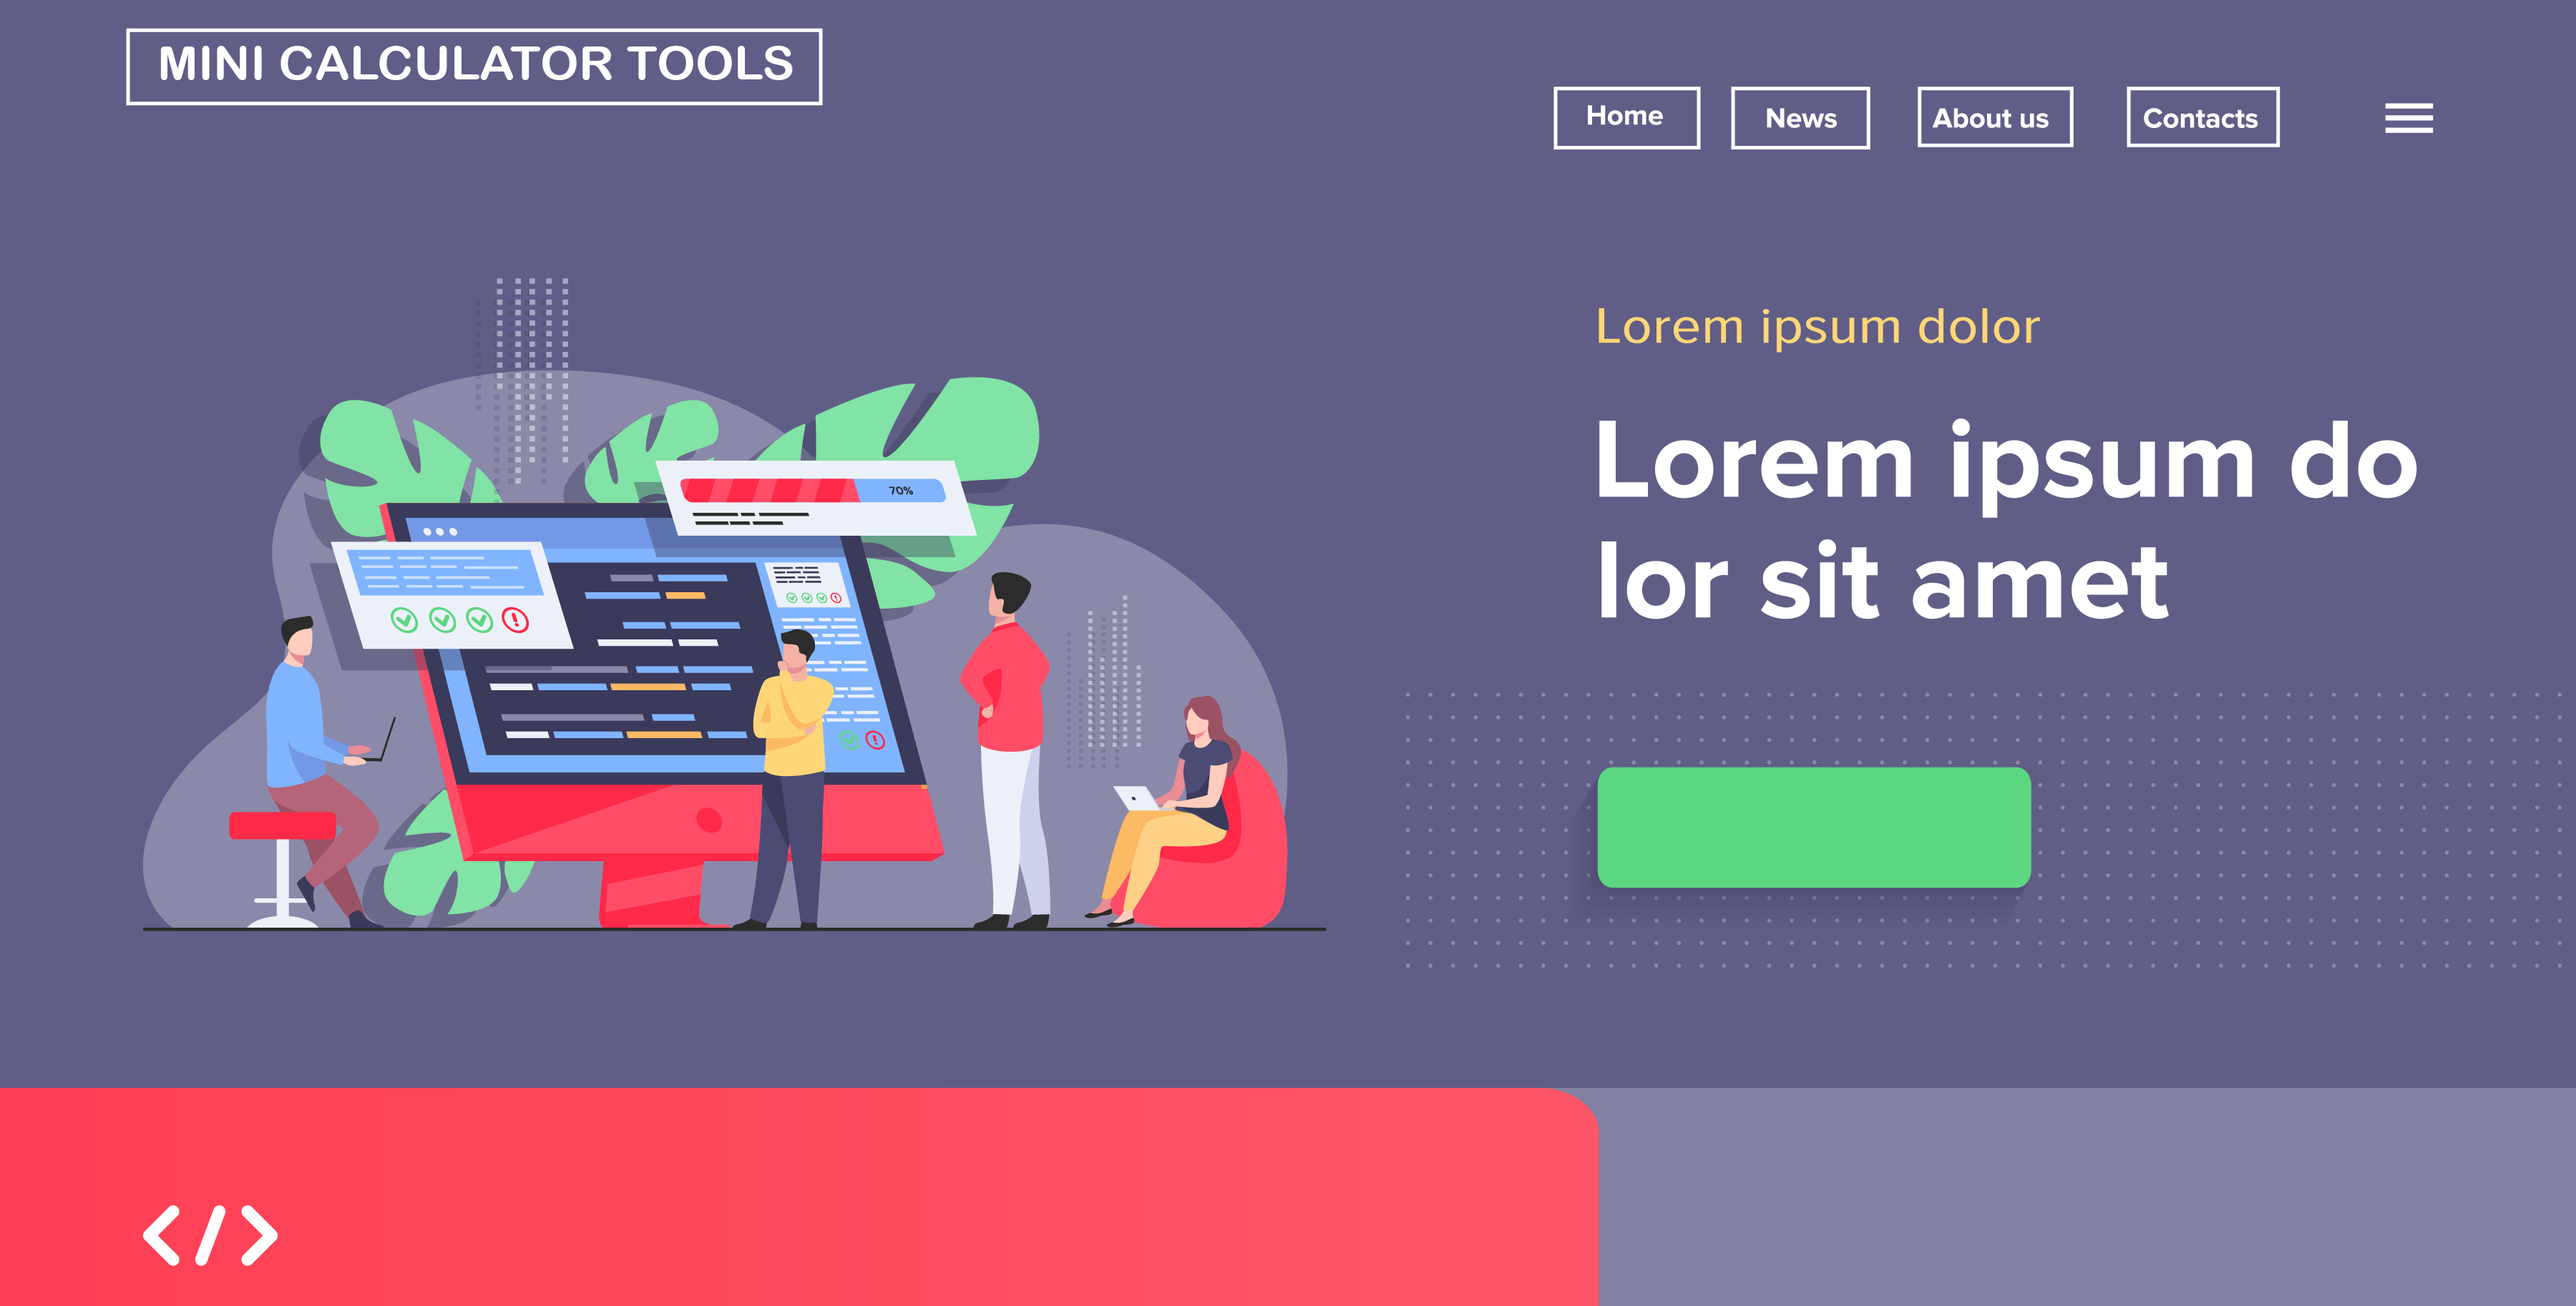
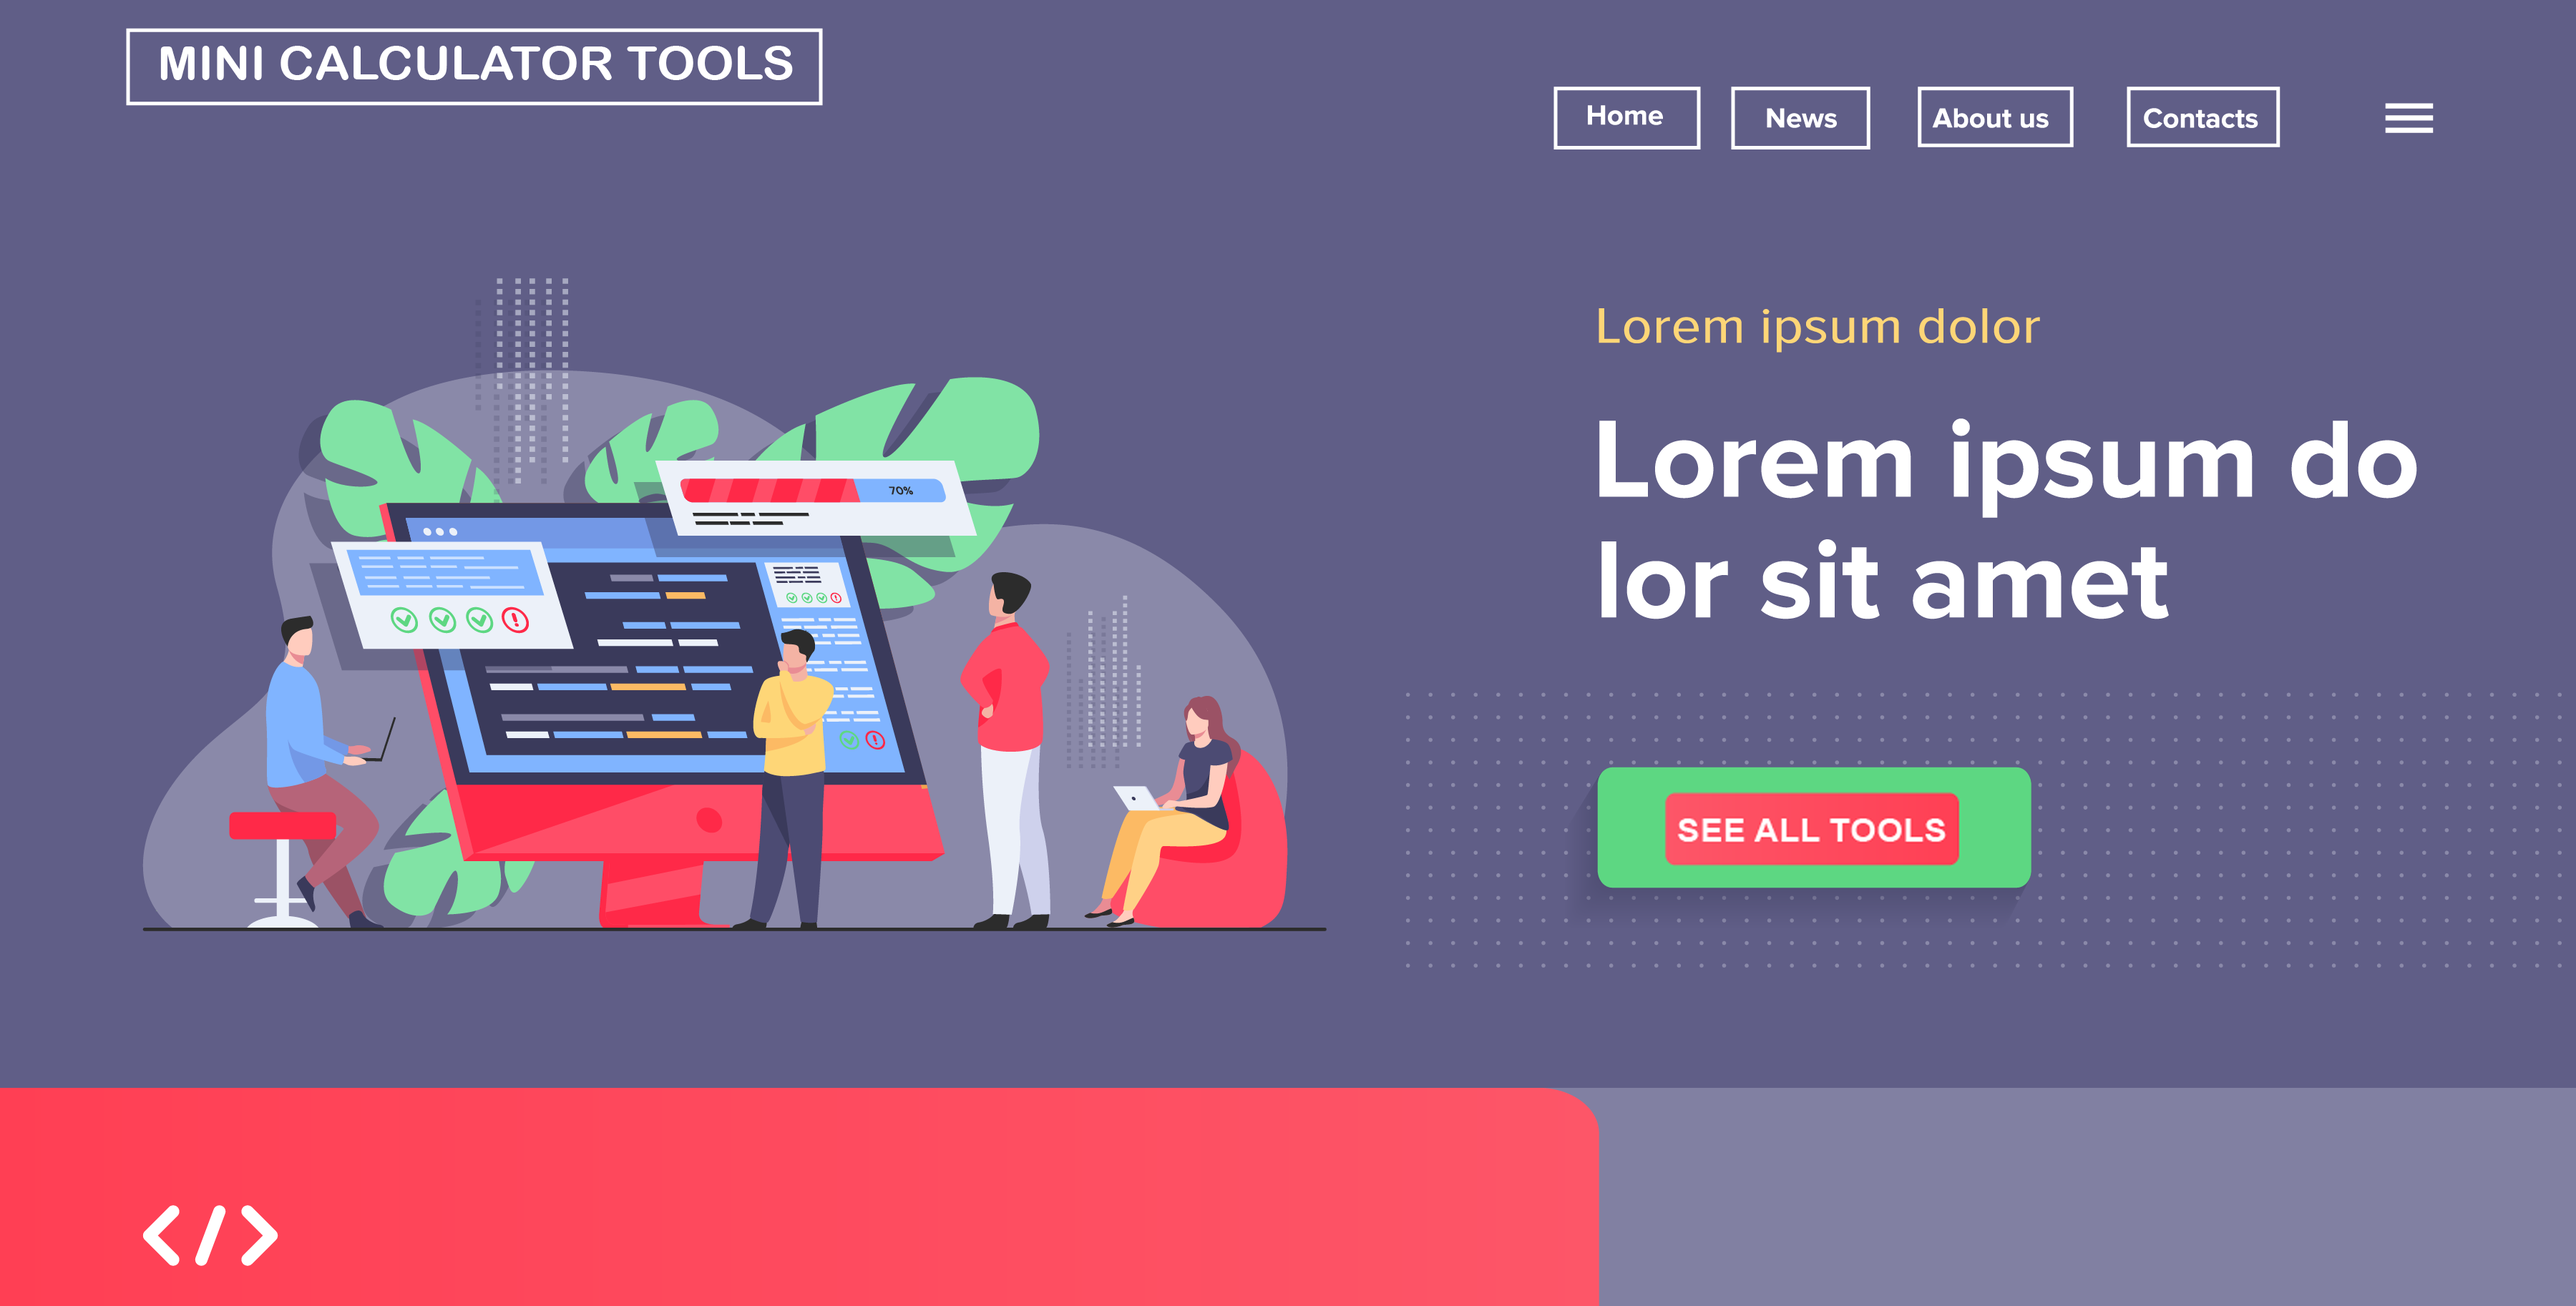
Third

Changed region(s): [[0.6222, 0.5931, 0.7778, 0.6867]]

diff --git a/main.css b/main.css
@@ -22,8 +22,11 @@ body
 .button{
     position: absolute;
     margin-top: 30.5%;
-    margin-left: 64.7%;
-    /* padding: 10px; */
+    margin-left: 64.6%;
+    padding: 10px;
+    padding-left: 16px;
+    padding-right: 16px;
+    padding-bottom: 12px;
     color:#494848;
     background-color:#5dd782;
     border-radius: 8px;
@@ -31,6 +34,7 @@ body
     font-size: 20px;
    text-decoration: none;
    font-family:Arial, Helvetica, sans-serif;
+ 
 } 
 
 

diff --git a/index.html b/index.html
@@ -9,7 +9,8 @@
 </head>
 <body>
     
-    <a class="button" href="mod.html">  See All Tools</a> 
+
+    <a class="button" href="mod.html">SEE ALL TOOLS</a> 
 
 
     <!-- <div class="vec-img">
